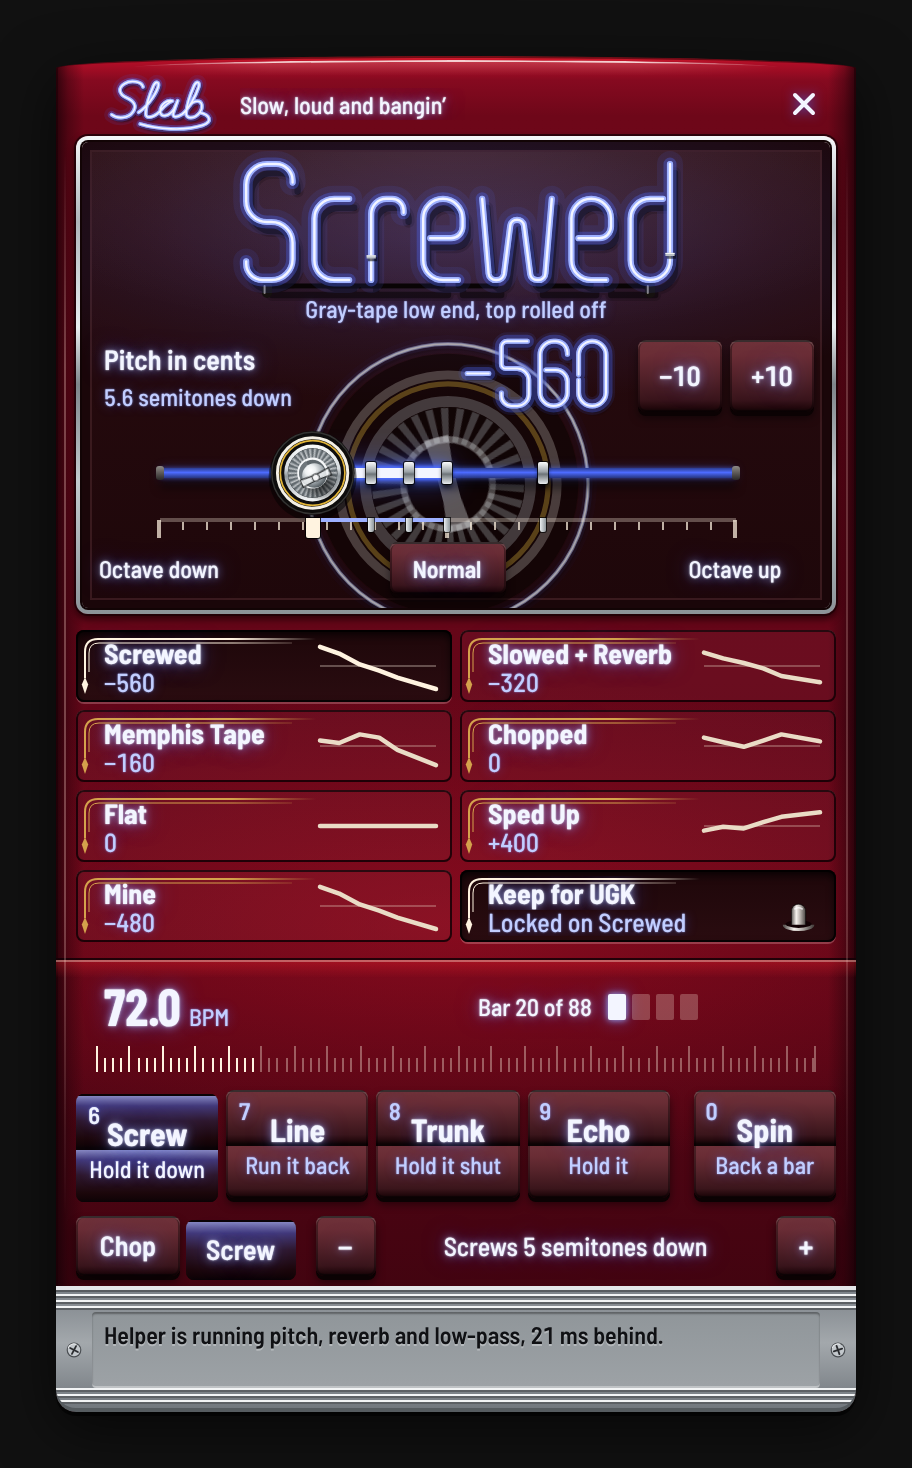
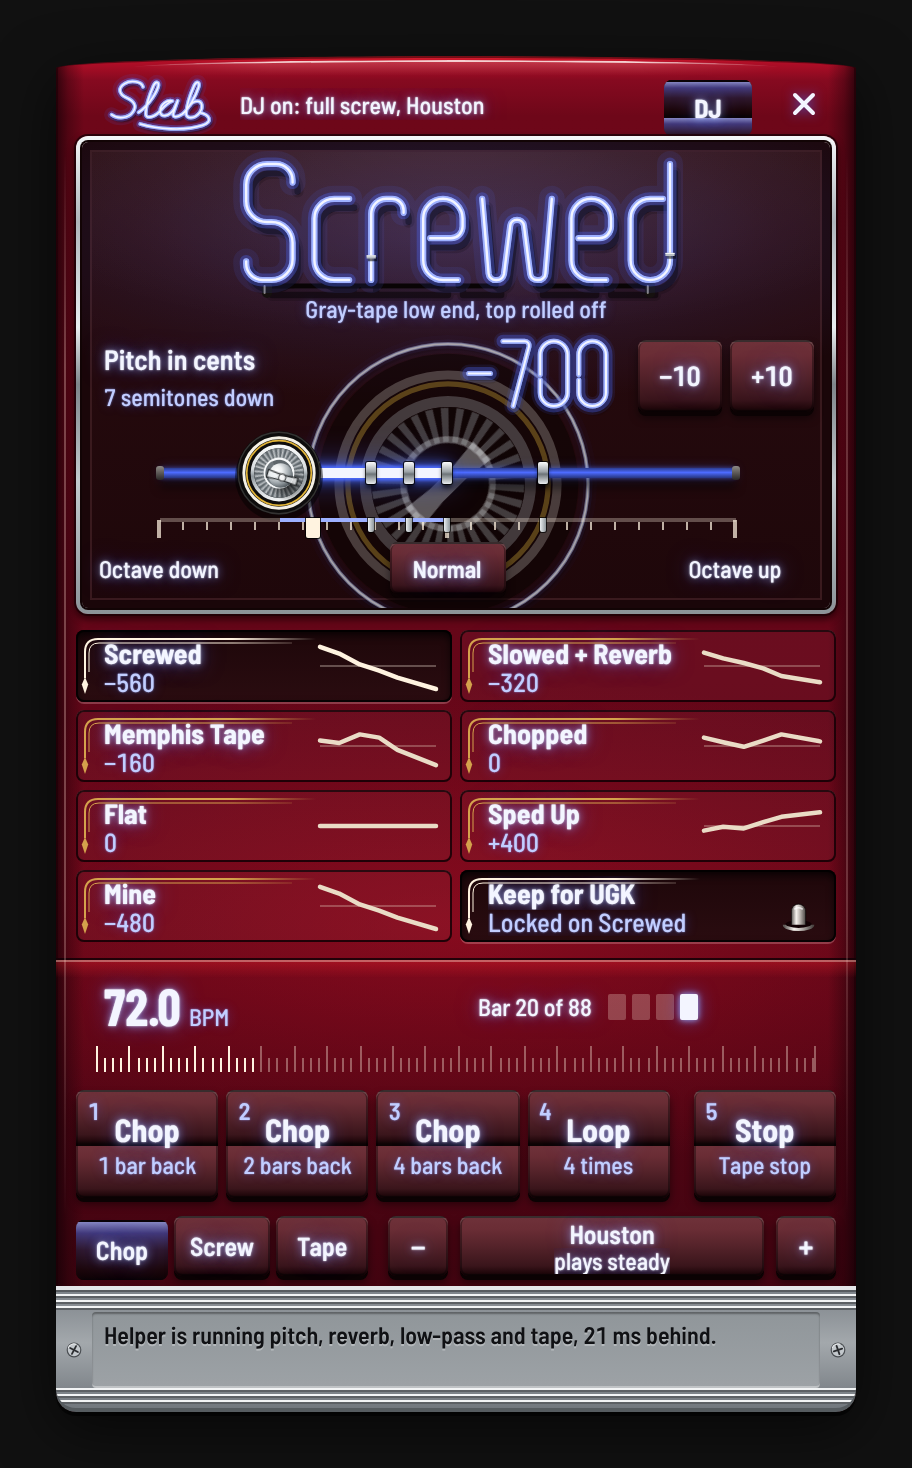
Marketplace listing: describe SLAB as it is at 0.10.0
The listing still described 0.4: six EQ curves, chop pads, a tape stop.
The manifest now names the moods, the pads, the vocal run-back and DJ
mode, and says what the macOS helper adds: true pitch and reverb,
instant chops, the holds and the tape. Tags follow it.

preview.png, the Marketplace card and the README's hero, is reshot with
DJ mode on: the DJ switch lit, Screwed at -700 and the DJ's row under
the Chop pads.

The README says there are three banks, not two, that DJ mode can be
told the kind of record and how hard to play, and what the helper adds
and how to get it when SLAB comes from the Marketplace.

Claude-Session: https://claude.ai/code/session_01WDyrdDo3pWuGqGQM74SY4b

diff --git a/README.md b/README.md
@@ -6,7 +6,7 @@ SLAB is a playback deck for the Houston lineage — the sound DJ Screw built wit
 
 Named for **Slow, Loud And Bangin'**. No samples, no lean imagery, no costume. Just the mix moves.
 
-![SLAB panel](preview.png)
+![The SLAB panel with DJ mode on: Screwed at −700 cents, and the DJ's row under the Chop pads](preview.png)
 
 ---
 
@@ -21,7 +21,7 @@ SLAB does the things the client can actually do, and pairs with a small companio
 - **Real pitch shift, reverb, delay and low-pass** through [SLAB DSP](#slab-dsp-macos) — a menu-bar helper that taps Spotify's output at the OS level on macOS 14.2+. No page sandbox involved.
 - **Beat-true chop pads** that jump back exactly 1, 2 or 4 bars to the same place in the bar, so the groove carries straight through, using Spotify's own audio analysis for the grid. They fire on the way down, like hardware, and with SLAB DSP running they land the instant you hit them: no waiting on Spotify to seek.
 - **The Screw bank** — the other half of the name, on keys 6 to 0: hold Screw and the pitch rides down like a hand on the pitch fader, Line runs the lyric line you just heard back on the beat, Trunk shuts the lid on the sound, Echo throws it back in time with the song, and Spin backspins the record into a chop. The holds last as long as the pad is down.
-- **DJ mode** — the `DJ` switch in the header: SLAB puts the record on full screw and works it itself, cutting on the phrase lines, running vocal lines back, looping and spinning out of sections, throwing echoes, riding Screw over the hook. It plays it by what kind of record it is, leans toward how you play, and hands the record back for eight bars whenever you hit a pad.
+- **DJ mode** — the `DJ` switch in the header: SLAB puts the record on full screw and works it itself, cutting on the phrase lines, running vocal lines back, looping and spinning out of sections, throwing echoes, riding Screw over the hook. It reads what kind of record it is (or you tell it, and it's kept for the artist), plays as hard as you set it, leans toward how you play, and hands the record back for eight bars whenever you hit a pad.
 - **The Tape bank** — what the record plays through, over any mood: a room for the reverb, a worn cassette's wow and hiss, a played record's crackle, a cheap sampler's crunch. It stays on until you clean it off.
 - **Your own mood, kept for the artist** — a seventh door, Mine, keeps the sound you have on, and Keep locks a mood to whoever is playing, so UGK always comes on Screwed.
 - **Tape stop** — a real pitch-and-speed spin-down when SLAB DSP is running, a fader pull into pause when it is not.
@@ -52,7 +52,7 @@ These are EQ curves, not presets with names slapped on. The sparkline on each ca
 
 ### The pads
 
-Two banks, the two halves of the name. The switch under the pads shows one at a time; the keys play both, and the panel shows whichever bank you last played.
+Three banks: Chop and Screw, the two halves of the name, and Tape, what the record plays through. The switch under the pads shows one at a time; the keys play Chop and Screw, and the panel shows whichever bank you last played.
 
 **Chop** (keys `1`–`5`)
 
@@ -225,7 +225,7 @@ So SLAB shifts pitch, which is the audible half of a screw record, and leaves te
 
 Search for **SLAB** in the Spicetify Marketplace and install it there.
 
-The extension itself is cross-platform. **SLAB DSP** — the part that adds real pitch, reverb and delay — is macOS 14.2+ only, because it depends on Core Audio process taps. On Windows and Linux the extension runs EQ-only and says so in the panel.
+The extension itself is cross-platform. **SLAB DSP**, the helper that makes the sound real (true pitch, reverb and delay, instant chops, the Screw, Trunk and Echo holds, the backspin and the tape), is macOS 14.2+ only, because it depends on Core Audio process taps. The Marketplace installs the extension; build the helper from this repo with `bun run dsp:install` (see [SLAB DSP](#slab-dsp-macos)). Without it, on any platform, the moods are EQ curves, the pads and DJ mode cut by seeking Spotify, and the panel says what needs the helper.
 
 ### Manual
 
